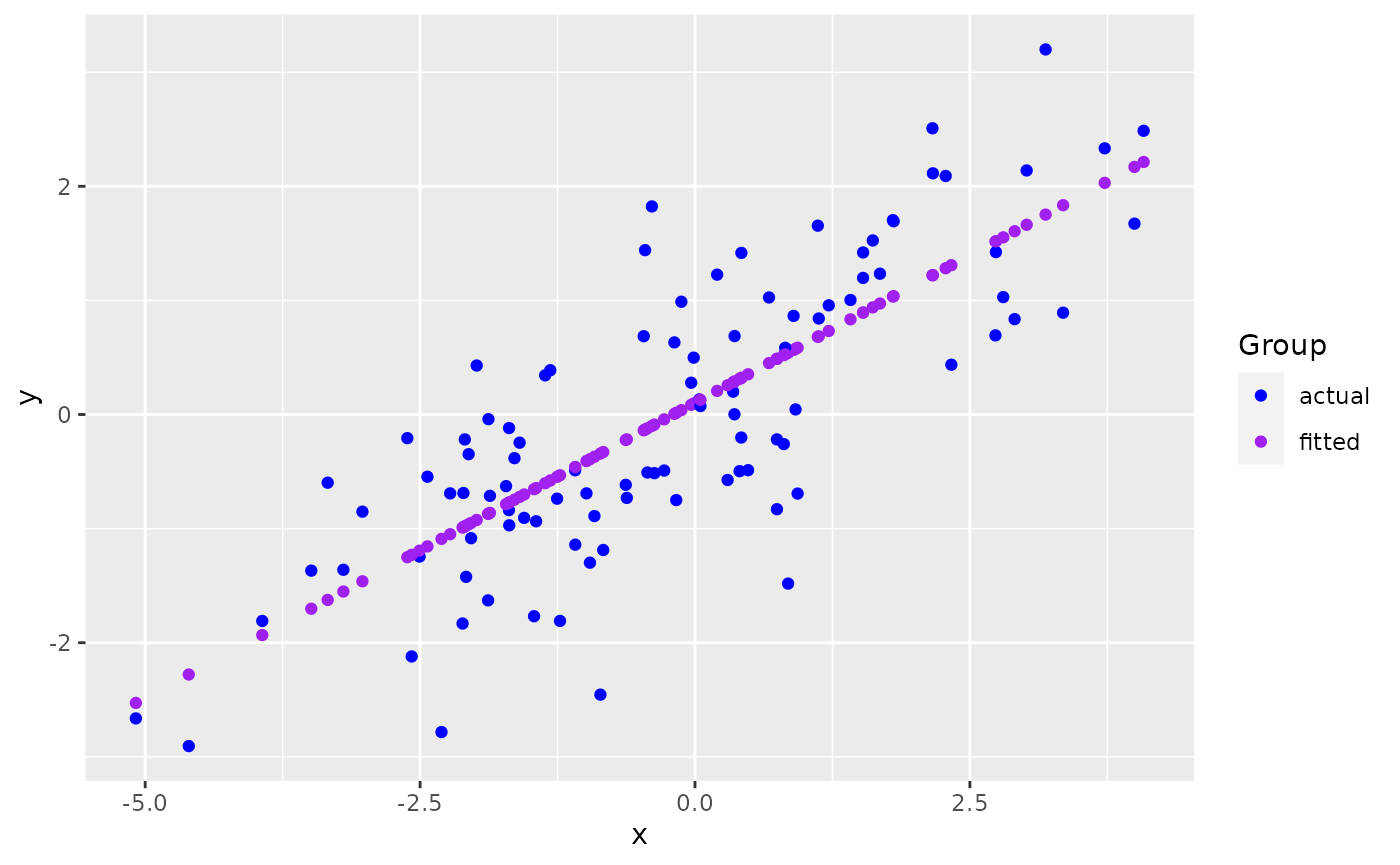
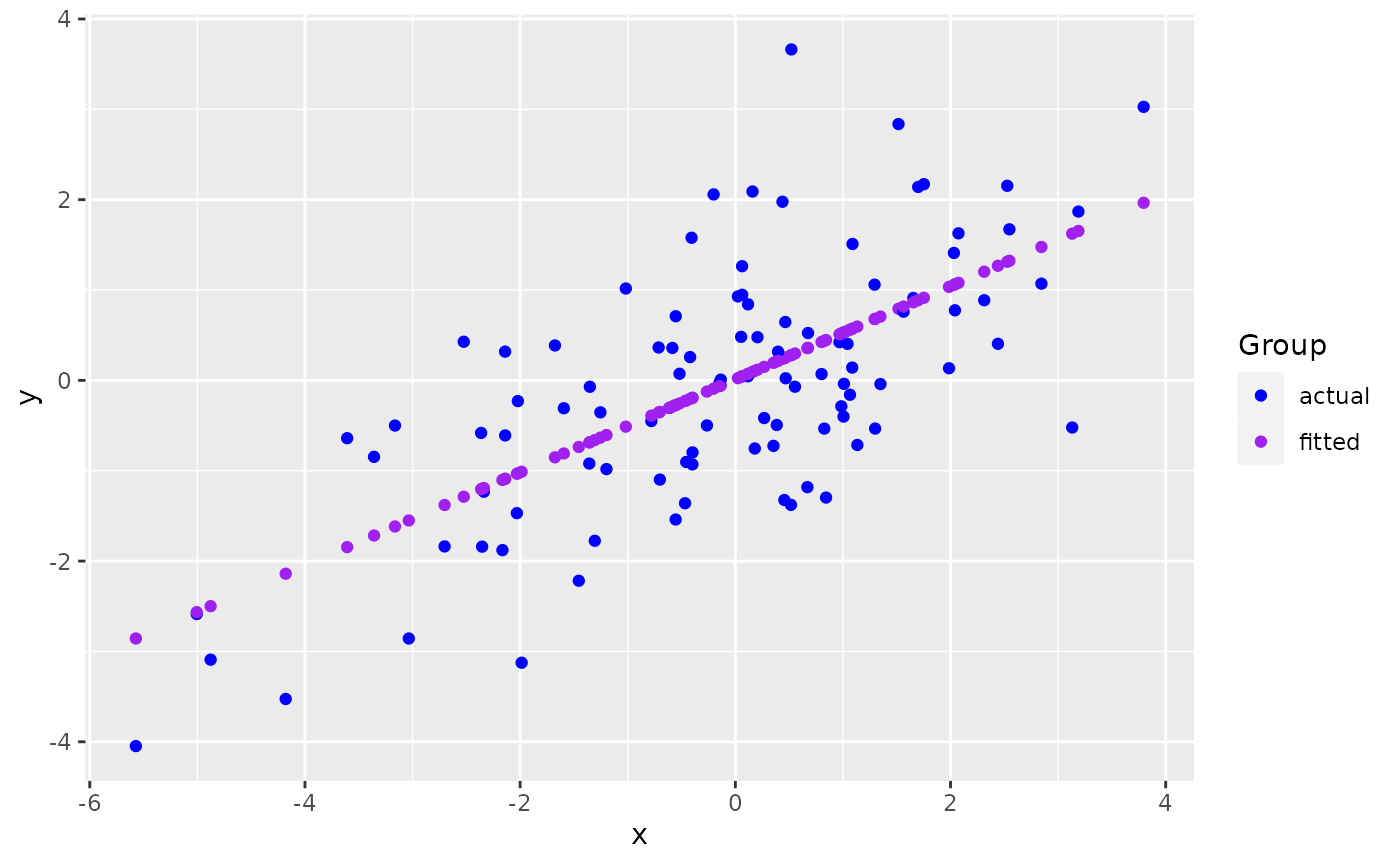
Built site for ggmatplot: 0.1.2@aacb330

diff --git a/articles/ggmatplot.html b/articles/ggmatplot.html
@@ -103,7 +103,7 @@
 <span class="va">x</span> <span class="op">&lt;-</span> <span class="fu"><a href="https://rdrr.io/r/base/c.html" class="external-link">c</a></span><span class="op">(</span><span class="fu"><a href="https://rdrr.io/r/stats/Normal.html" class="external-link">rnorm</a></span><span class="op">(</span><span class="fl">100</span>, sd <span class="op">=</span> <span class="fl">2</span><span class="op">)</span><span class="op">)</span>
 
 <span class="fu"><a href="https://rdrr.io/r/utils/head.html" class="external-link">head</a></span><span class="op">(</span><span class="va">x</span><span class="op">)</span>
-<span class="co">#&gt; [1] -1.5948949 -3.3401330 -0.6199673  2.1634536 -2.0359706  2.3313997</span>
+<span class="co">#&gt; [1]  0.2057784  1.0056778  1.0427001 -3.0348878  0.1596330  0.8012064</span>
 
 <span class="co"># matrix z</span>
 <span class="va">y</span> <span class="op">&lt;-</span> <span class="va">x</span> <span class="op">*</span> <span class="fl">0.5</span> <span class="op">+</span> <span class="fu"><a href="https://rdrr.io/r/stats/Normal.html" class="external-link">rnorm</a></span><span class="op">(</span><span class="fl">100</span>, sd <span class="op">=</span> <span class="fl">1</span><span class="op">)</span>
@@ -112,13 +112,13 @@
            fitted <span class="op">=</span> <span class="va">fit.y</span><span class="op">)</span>
 
 <span class="fu"><a href="https://rdrr.io/r/utils/head.html" class="external-link">head</a></span><span class="op">(</span><span class="va">z</span><span class="op">)</span>
-<span class="co">#&gt;       actual     fitted</span>
-<span class="co">#&gt; 1 -0.2466891 -0.7222101</span>
-<span class="co">#&gt; 2 -0.5974109 -1.6249525</span>
-<span class="co">#&gt; 3 -0.7308159 -0.2179188</span>
-<span class="co">#&gt; 4  2.1136479  1.2218344</span>
-<span class="co">#&gt; 5 -1.0839556 -0.9503610</span>
-<span class="co">#&gt; 6  0.4365498  1.3087063</span></code></pre></div>
+<span class="co">#&gt;       actual      fitted</span>
+<span class="co">#&gt; 1  0.4778440  0.11784392</span>
+<span class="co">#&gt; 2 -0.4008260  0.52967657</span>
+<span class="co">#&gt; 3  0.4041629  0.54873768</span>
+<span class="co">#&gt; 4 -2.8569064 -1.55063117</span>
+<span class="co">#&gt; 5  2.0900750  0.09408569</span>
+<span class="co">#&gt; 6  0.0702532  0.42440335</span></code></pre></div>
 <p><code>ggmatplot</code> plots vector <code>x</code> against each column of matrix <code>z</code> using the default <code>plot_type = "point"</code>. This will be represented on the resulting plot as two groups, identified using different shapes and colors.</p>
 <div class="sourceCode" id="cb2"><pre class="downlit sourceCode r">
 <code class="sourceCode R"><span class="kw"><a href="https://rdrr.io/r/base/library.html" class="external-link">library</a></span><span class="op">(</span><span class="va"><a href="https://github.com/xuan-liang/ggmatplot" class="external-link">ggmatplot</a></span><span class="op">)</span>

diff --git a/news/index.html b/news/index.html
@@ -62,7 +62,11 @@
 
     <div class="section level2"><h2 class="page-header" data-toc-text="development version" id="ggmatplot-development-version">ggmatplot (development version)<a class="anchor" aria-label="anchor" href="#ggmatplot-development-version"></a></h2></div>
     <div class="section level2">
-<h2 class="page-header" data-toc-text="0.1.1" id="ggmatplot-011">ggmatplot 0.1.1<small>2022-01-11</small><a class="anchor" aria-label="anchor" href="#ggmatplot-011"></a></h2>
+<h2 class="page-header" data-toc-text="0.1.2" id="ggmatplot-012">ggmatplot 0.1.2<a class="anchor" aria-label="anchor" href="#ggmatplot-012"></a></h2>
+<ul><li>Modified the legend setting.</li></ul></div>
+    <div class="section level2"><h2 class="page-header" data-toc-text="0.1.1" id="ggmatplot-011">ggmatplot 0.1.1<small>2022-01-11</small><a class="anchor" aria-label="anchor" href="#ggmatplot-011"></a></h2></div>
+    <div class="section level2">
+<h2 class="page-header" data-toc-text="0.1.0" id="ggmatplot-010">ggmatplot 0.1.0<small>2021-12-08</small><a class="anchor" aria-label="anchor" href="#ggmatplot-010"></a></h2>
 <ul><li>This old version has been archived on CRAN.</li></ul></div>
   </div>
 
